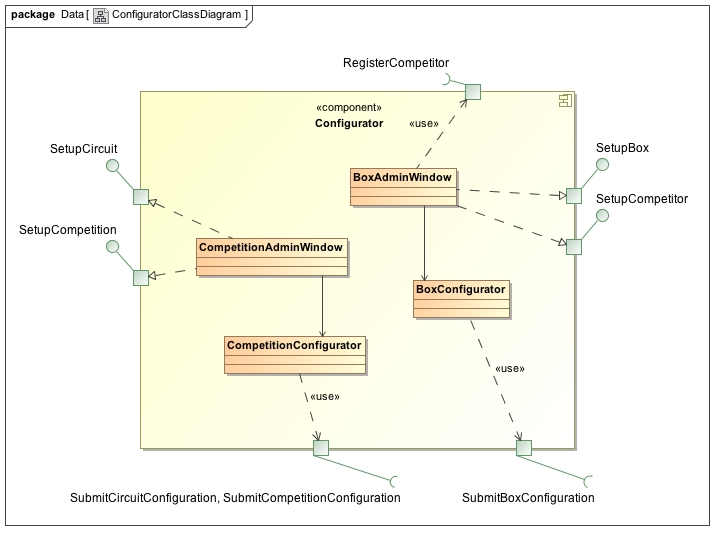
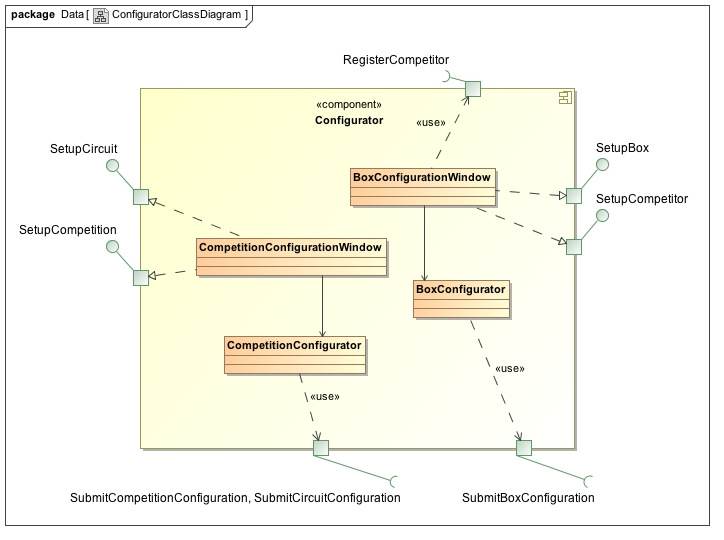
Corretta relazione, aggiunto supporto al ritentativo di connessione su caduta connessione lato box

diff --git a/documents/Relazione/soluzione_proposta.tex b/documents/Relazione/soluzione_proposta.tex
@@ -184,7 +184,7 @@ tramite le interfacce \textbf{SetupCompetitor},
 \caption{Protocol / Interface diagram - Competition/Competitor}
 \end{figure}
 \end{center}
-L'interazione fra la \emph{Competition} e il \emph{Competitor} avviene, come per le altre interazioni \emph{Competition}-componente in fase di configurazione
+L'interazione fra la \emph{Competition} e il \emph{Competitor} avviene, come per le altre interazioni \emph{Competition}-componente, in fase di configurazione
 e avvio. La \emph{Competition} si occupa di ricevere i parametri relativi a ogni \emph{Competitor} dal \emph{Configurator} (come verr\`{a} spiegato fra poco) per 
 poi inizializzare il competitor. Quando tutti i concorrenti sono pronti e anche i \emph{Box}, l'interfaccia \textbf{Start} verr\`{a} utilizzata per dare il
 via ai concorrenti.
@@ -291,7 +291,7 @@ Vi sono poi altre due interfacce offerte dal \emph{Box} al \emph{Monitor}. Per q
 acquisisce senso se si pensa che la componente \emph{Monitor}, ad alto livello, \`{e} stata pensata per pubblicare informazioni. Tali
 informazioni possono riguardare il singolo concorrente e quindi essere utili al \emph{Box}. Altre possono invece riguardare il \emph{Box} e 
 i suoi calcoli per essere esposte ad un utente (per esempio). Le due interfacce offerte dal \emph{Box} infatti servono per ottenere
-aggiornamenti sulle operazioni interne del \emph{Box} qualora essere dovessero essere esposte ad un qualunque client. Come vedremo pi\`{u}
+aggiornamenti sulle operazioni interne del \emph{Box} qualora esse dovessero essere esposte ad un qualunque client. Come vedremo pi\`{u}
 in dettaglio in seguito, questa componente \`{e} in realt\`{a} costituita da due sotto-componenti, una dedicata a \emph{Competition} e l'altra a
 \emph{Box}.
 \subsubsection{Screen-Monitor}
@@ -302,7 +302,7 @@ in dettaglio in seguito, questa componente \`{e} in realt\`{a} costituita da due
 \end{figure}
 \end{center}
 La componente \emph{Screen} comunica con il \emph{Monitor} per ottenere informazioni utili da esporre graficamente all'utente. Tali
-informazioni possono riguardare la competizione in senso globale, oppure essere legate ai singoli concorrenti e box.
+informazioni possono riguardare la competizione in senso globale, oppure essere legate ai singoli concorrenti.
 \subsubsection{Competitor-Box}
 \begin{center}
 \begin{figure}[h!]
@@ -324,7 +324,7 @@ i problemi visti. Tali entit\`{a} sono:
 \begin{itemize}
   \item \textbf{coda al checkpoint}: ogni checkpoint introduce tratti di circuito con caratteristiche diverse rispetto a quello precedente.
 	      \`{E} quindi possibile che da un tratto a molteplicit\`{a} 5 si passi ad uno a molteplicit\`{a} 3. L'accesso a tale tratto va quindi
-	      regolata per evitare situazioni anomale. La coda \`{e} ordinata in base ai tempi segnati (ulteriori dettagli in seguito).
+	      regolato per evitare situazioni anomale. La coda \`{e} ordinata in base ai tempi segnati (ulteriori dettagli in seguito).
   \item \textbf{istante di arrivo}: \`{e} l'istante in cui il concorrente \`{e} previsto arrivare. Indica l'istante reale di arrivo e dipende
 	      dal tempo di attraversamento (oltre che dal tempo accumulato fino a quel momento).
   \item \textbf{istante limite di arrivo previsto}: \`{e} l'istante in cui il concorrente arriverebbe sotto ipotesi ottimistiche al massimo. 
@@ -349,8 +349,8 @@ fino al raggiungimento di quello successivo.\\
 successivo all'istante di tempo pi\`{u} vicino.
 \item aggiunge il tempo di attraversamento calcolato (in base alle caratteristiche dell'auto e alla strategia) al tempo di liberazione del tratto o, 
 se il tempo di liberazione segnato \`{e} minore dell'istante di arrivo del concorrente, segna come istante di liberazione \emph{istante di arrivo}+\emph{tempo
-di attraversamento} (poich\`{e} significa che la traiettoria era gi\`{a} stata liberata all'arrivo del concorrente).
-\item segna il tempo di arrivo effettivo sulla coda del checkpoint successivo, che verr\`{a} \textbf{riordinata} in base al nuovo tempo.
+di attraversamento} (poich\`{e} significa che la traiettoria era gi\`{a} stata liberata all'arrivo del concorrente). Altrimenti segnerà \emph{tempo segnato+tempo di attraversamento}.
+\item segna il tempo di arrivo effettivo (dipendente chiaramente dal tempo segnato sulla traiettoria) sulla coda del checkpoint successivo, che verr\`{a} \textbf{riordinata} in base al nuovo tempo.
 \item segna il tempo di arrivo limite su tutte le altre code, da quella successiva al checkpoint che si sta per raggiungere a quella del checkpoint
 appena attraversato. Ad ogni aggiornamento del tempo limite, la coda viene \textbf{riordinata}.
 \item delay per fini di simulazione;
@@ -372,7 +372,7 @@ che nel checkpoint N il concorrente A abbia tempo di arrivo effettivo 4.0 e il c
 coda del checkpoint N+1 il concorrente B con 6.0 in prima posizione (ad esempio) e A con 8.0 a seguire. Il che significherebbe che in qualche modo B, nonostante
 abbia avuto accesso al tratto dopo A, sia riuscito lo stesso a sorpassarlo arrivando primo al checkpoint dopo. La cosa non pu\`{o} succedere. Per i punti spiegati
 prima, quando A arriva primo effettivo sulla coda del checkpoint N, potr\`{a} eseguire la valutazione delle traiettorie in modo esclusivo. Verr\`{a} quindi segnato
-un istante di liberazione sull'unica traiettoria disponibile maggiore o uguale a 4.0. Supponiamo 8.0. Verr\`{a} quindi segnato 8.0 Nella coda del checkpoint N+1. A
+un istante di liberazione sull'unica traiettoria disponibile maggiore o uguale a 4.0. Supponiamo 8.0. Verr\`{a} quindi segnato 8.0 nella coda del checkpoint N+1. A
 seguire verranno segnati $8.0+\epsilon$ su tutti gli altri tratti, fino al tratto N di nuovo dove la coda verr\`{a} riordinata e B risulter\`{a} primo effettivo.
 Ora, supponiamo (caso pessimo) che A non possa eseguire per un bel po' di tempo. B diventa primo su N, valuta la traiettoria e segna l'istante di liberazione.
 Tale istante non potr\`{a} essere minore di 8.0, poich\`{e} \`{e} stato il tempo segnato da A. Quindi, qualunque tempo di arrivo effettivo segnato al checkpoint
@@ -391,7 +391,7 @@ richiedono un rientro, il concorrente prender\`{a} il tratto dei box. Il box \`{
 Tale checkpoint introduce il tratto di uscita dai box, che porter\`{a} al checkpoint di uscita (nel circuito).\\
 I tratti nella corsia dei box hanno molteplicit\`{a} pari al numero di concorrenti. Questo perch\`{e} i concorrenti vanno alla stessa
 velocit\`{a} nelle corsie dei box e potenzialmente tutti insieme (uno dietro l'altro), quindi non possono avvenire sorpassi. L'unica ipotesi di
-sorpasso data dalla velocit\`{a} che un concorrente richiede per il rifornimento e il cambio gomme. Tale tempo influir\`{a} sull'istante di arrivo
+sorpasso \`{e} data dalla velocit\`{a} che un concorrente richiede per il rifornimento e il cambio gomme. Tale tempo influir\`{a} sull'istante di arrivo
 che verr\`{a} segnato nel checkpoint di uscita.
 % Dimostrazione dell'assenza di stallo
 \subsection{Assenza di stallo}
@@ -417,7 +417,7 @@ lo stallo porterebbe ad una contraddizione.\\
 \newpage
 %%% Architettura in dettaglio %%
 \section{Architettura in dettaglio}
-Si spiegher\`{a} ora con maggior dettaglio l'architettura di sistema, esplicando come le principali classi implementate svolgono le funzionalit\`{a}
+Si spiegher\`{a} ora con maggior dettaglio l'architettura di sistema, esplicando come le principali classi implementate svolgano le funzionalit\`{a}
 esposte dalle interfacce illustrate nel capitolo precedente.
 \subsection{Diagrammi delle classi}
 \subsubsection{Competition}
@@ -458,7 +458,7 @@ stesso \textbf{Synch\_Competition}, descritto poche righe pi\`{u} sopra.
 \item \textbf{RegistrationHandler} \`{e} l'oggetto che rimane in attesa di concorrenti. Pi\`{u} precisamente, \`{e} un server dedicato ad accogliere
 le richieste di registrazione dei concorrenti. Con il supporto di Polyorb \`{e} possibile invocare questo oggetto da remoto. Ad ogni richiesta,
 vengono salvati i parametri di configurazione in un file xml il cui nome e locazione verranno passati a \textbf{Synch\_Competition} per
-i effettuare il resto delle procedure di inizializzazione del concorrente. Di ritorno ci saranno l'ID del concorrente, il numero di lap,
+ effettuare il resto delle procedure di inizializzazione del concorrente. Di ritorno ci saranno l'ID del concorrente, il numero di lap,
 la lunghezza del circuito e il corbaloc 
 del \textbf{Competition\_Monitor} che il \emph{Box} dovr\`{a} utilizzare per rimanere sincronizzato sugli sviluppi del rispettivo concorrente.
 \end{itemize}
@@ -474,15 +474,16 @@ la traiettoria ottima in base alle condizioni del tratto e dei competitor presen
 sono contenute in \textbf{Driver}. \textbf{Car} mantiene alcune caratteristiche statiche sulla macchina e altre dinamiche, come il livello
 di benzina e l'usura delle gomme. \textbf{Strategy} mantiene le seguenti informazioni:
 \begin{itemize}
-\item Tipo gomme
+%\item Tipo gomme
 \item Stile di guida
 \item Numero di giri al pitstop (se 0, bisogna rientrare al pitstop)
 \item Durata del pitstop (nel caso il pitstop sia avvenuto)
 \item Livello di Gas (dopo il pitstop in caso sia avvenuto)
 \end{itemize}
-\textsc{Stile di guida} e \textsc{Numero di giri al pitstop} vengono aggiornate ad ogni giro, \textsc{Tipo gomme}, \textsc{Durata del pitstop}
-e \textsc{Livello di gas} vengono tenute in considerazione solo in caso di pitstop. Tipo di gomme e livello di gas vengono usate per aggiornare
-le impostazioni di \textbf{Car}. La durata del pitstop per aggiornare correttamente il tempo di arrivo segnato nel checkpoint di uscita
+\textsc{Stile di guida} e \textsc{Numero di giri al pitstop} vengono aggiornate ad ogni giro, \textsc{Durata del pitstop}
+e \textsc{Livello di gas} vengono tenute in considerazione solo in caso di pitstop. Il livello di gas viene usato per aggiornare
+le impostazioni di \textbf{Car} (le gomme vengono automaticamente messe a nuovo). 
+La durata del pitstop viene usata per aggiornare correttamente il tempo di arrivo segnato nel checkpoint di uscita
 dai box.\\
 Quando un concorrente si trova sul checkpoint prima della corsia dei box, effettua una chiamata al \emph{Box} tramite la \textbf{CompetitorRadio}
 per richiedere una strategia aggiornata. Se la strategia tornata contiene un numero di giri al pitstop pari a 0, il \textbf{TaskCompetitor}
@@ -613,7 +614,7 @@ un tipo record denominato \textbf{Competitor\_Stats}, contenente i seguenti dati
 Ora vediamo pi\`{u} dettagliatamente le due sotto-componenti accennate precedentemente:
 \begin{itemize}
 \item \textbf{OnboardComputer}:\\
-\`{e} un computer dedicato ad ogni singolo concorrente, denominato \textbf{OnboardComputer}. Ogni concorrente ne mantiene un'istanza che utilizza
+\`{e} un computer dedicato ad ogni singolo concorrente. Ogni concorrente ne mantiene un'istanza che utilizza
 per aggiornare le statistiche di checkpoint in checkpoint. Pi\`{u} precisamente, ogni concorrente possiede un'istanza di \textbf{Computer}, un record
 che colleziona le statistiche del singolo concorrente e le informazioni statiche sulla configurazione della competizione.\\
 Ogni \textbf{Computer} mantiene inoltre un riferimento ad una risorsa che nel diagramma \`{e} \textbf{Synch\_Info\_For\_Box}. Tale risorsa
@@ -627,7 +628,7 @@ passaggi:
 anche ai dati passati) e se migliore di quello precedentemente salvato (in \textbf{Computer}), viene aggiornato quello vecchio.
 \item se la fine del tratto coincide con la fine del settore vengono anche aggiornate le informazioni in \textbf{Synch\_Info\_For\_Box}. 
 Si ricorda infatti che il \emph{Box} riceve le informazioni aggiornate alla fine di ogni settore.
-\item se la fine del tratto corrisponde con la fine del giro, vengono aggiornato il miglior tempo di giro come fatto per i settori.
+\item se la fine del tratto corrisponde con la fine del giro, viene aggiornato il miglior tempo di giro come fatto per i settori.
 \item una volta effettuati tutti i controlli, le informazioni vengono impacchettate e inviate a \textbf{CompetitionComputer} per ulteriori
 controlli e per essere salvate.
 \end{itemize}
@@ -722,7 +723,7 @@ Il \emph{Box} \`{e} una componente che si occupa di assistere la gara del concor
 caratteristiche:
 \begin{description}
 \item{\textbf{Update\_Retriever}}:\\
-Come il nome suggerisce, questa unit`{a} \`{e} finalizzata a recuperare gli aggiornamenti di gara relativi al concorrente associato al box.
+Come il nome suggerisce, questa unit\`{a} \`{e} finalizzata a recuperare gli aggiornamenti di gara relativi al concorrente associato al box.
 A tale scopo, il task si connette al \textbf{Competition\_Monitor} per ottenere un pacchetto di informazioni aggiornato alla fine di ogni 
 settore. Tali informazioni vengono convertite in un formato compatibile con il sistema (vengono ricevute in XML e convertite in un oggetto
 \textbf{Competition\_Update}). Fatto ci\`{o}, gli aggiornamenti vengono inseriti nel buffer \textbf{Synch\_Competition\_Updates}. Il task
@@ -752,7 +753,7 @@ viene messo in attesa.
 Supporta la comunicazione fra \emph{Box} e \textbf{Box\_Monitor}.Questa risorse \`{e} destinata a contenere tutte le informazioni legate ai box.
 Oltre alle informazioni grezze di settore sul concorrente, la risorsa colleziona anche le medie calcolate
 dai box e le strategie ogni qualvolta ne siano disponibili di nuove. Le informazioni sono ordinate cronologicamente e associate
-ad un indice. L'indice va da 1 a $3 * Lap Totali$, poich\`{e} i settori sono tre. Se un informazione relativa ad un settore e ad una lap non
+ad un indice. L'indice va da 1 a $3 * Lap Totali$, poich\`{e} i settori sono tre. Se un'informazione relativa ad un settore e ad una lap non
 \`{e} disponibile, il richiedente viene messo in attesa fino a che l'aggiornamento non risulti disponibile.
 \end{description}
 Si pu\`{o} constatare che a concorrere per le informazioni collezionate nel \emph{Box} non vi sono solo unit\`{a} interne alla componente, ma anche
@@ -764,7 +765,7 @@ Il secondo (\emph{Screen}) richiede tutte le informazioni dall'indice 1 all'indi
 la parte del \emph{Monitor} destinata ai box. Le informazioni tornate possono riguardare solo un aggiornamento di settore o anche di strategia,
 in base a quanto disponibile per quell'indice.\\
 \\
-Infine il \textbf{Main\_Box} \`{e} destinato ad inizializzare e configurare le risorse protette condivise e i task e istanziare gli oggetti CORBA necessari 
+Infine il \textbf{Main\_Box} \`{e} destinato ad inizializzare e configurare le risorse protette condivise e i task e istanziare gli oggetti ORB necessari 
 alla comunicazione fra componenti.
 \newpage
 \subsubsection{Configurator}
@@ -781,7 +782,7 @@ un'interfaccia di configurazione (scritta in Java) per \emph{Competition} e \emp
 ovvero classi che permettono l'intercomunicazione fra linguaggi diversi, di modo quindi che i dati inseriti nelle interfacce utente
 possano essere trasferiti alle componenti sottostanti per la configurazione e inizializzazione. In dettaglio:
 \begin{description}
-\item{\textbf{CompetitionAdminWindow}}:\\
+\item{\textbf{CompetitionConfigurationWindow}}:\\
 Utilizzata per impostare i parametri di gara, ovvero:
 \begin{itemize}
 \item numero lap
@@ -790,7 +791,7 @@ Utilizzata per impostare i parametri di gara, ovvero:
 \end{itemize}
 Una volta impostati i parametri essi verranno sottomessi via \textbf{CompetitionConfigurator} alla \emph{Competition} per la
 configurazione e l'inizializzazione.
-\item{\textbf{BoxAdminWindow}}:\\
+\item{\textbf{BoxConfigurationWindow}}:\\
 Utilizzata per impostare le caratteristiche statiche del concorrente associato al box 
 (fare riferimento al capitolo \ref{competitor} per informazioni su tali parametri), dettagli riguardanti il box stesso, ovvero la strategia 
 (fare riferimento al capitolo \ref{box} per ulteriori dettagli) e la configurazione iniziale dell'auto, ovvero tipo di gomme e quantit\`{a} di
@@ -798,8 +799,6 @@ benzina iniziale. Queste informazioni vengono poi utilizzate per registrare il c
 della componente \emph{Competition}). Una volta registrato il concorrente si potranno ottenere il resto delle informazioni necessarie
 ad inizializzare il box, ovvero numero di giri e lunghezza circuito (per esempio). \`{E} quindi ora possibile inviare i parametri di configurazione
 al \emph{Box} tramite il \textbf{BoxConfigurator}.
-\item{\textbf{BoxScreen}}:\\
-La classe \textbf{BoxScreen} visualizza l'andamento della competizione da parte del concorrente a cui si riferisce.Questa finestra viene avviata dopo che il concorrente si \`{e} registrato alla competizione. Una volta avviato si mette in ascolto sul \emph{Box\_Monitor\_Radio} che ritorna (quando disponibili) le informazioni relative all'andamento del proprio concorrente, visualizzando tempi, posizione sulla pista, usura delle gomme e livello della benzina.
 \end{description}
 \newpage
 \subsubsection{Screen}
@@ -809,6 +808,8 @@ La classe \textbf{BoxScreen} visualizza l'andamento della competizione da parte 
 \caption{Class diagram - Screen}
 \end{figure}
 \begin{description}
+\item{\textbf{BoxScreen}}:\\
+La classe \textbf{BoxScreen} visualizza l'andamento della competizione da parte del concorrente a cui si riferisce.Questa finestra viene avviata dopo che il concorrente si \`{e} registrato alla competizione. Una volta avviato si mette in ascolto sul \emph{Box\_Monitor\_Radio} che ritorna (quando disponibili) le informazioni relative all'andamento del proprio concorrente, visualizzando tempi, posizione sulla pista, usura delle gomme e livello della benzina.
 \item{\textbf{ScreenTv}}:\\
 La classe \textbf{ScreenTv} \`{e} l'implementazione dell'interfaccia \textbf{TvPanelInterface} e si occupa di offrire una visualizzazione dei dati di gara.
 Quando viene creato lo ScreenTv la connessione con il monitor di sistema \`{e} gi\`{a} stata effettuata ed \`{e} quindi funzionante. Tramite il riferimento al monitor lo ScreenTv \`{e} in grado di ottenere inizialmente le informazioni statiche della gara tramite il metodo \underline{Get\_CompetitionConfiguration} e utilizzarle per costruire la GUI. Successivamente si mette in ascolto sul monitor aspettando l'iscrizione dei concorrenti.Ad iscrizione avvenuta vengono stampate le informazioni relative ai concorrenti. Successivamente, quando parte la gara, lo screenTv comincia ad acquisire informazioni dal monitor. La richiesta viene effettuata ogni intervallo di tempo (fissato per lo screen della competizione, configurabile per lo screen di una tv generica). Ogni volta che viene richiesto un aggiornamento possono presentarsi due situazioni. La prima \`{e} la disponibilit\`{a} delle informazioni che quindi vengono lette e la gui viene cos\`{i} aggiornata con i valori opportuni, la seconda \`{e} la non disponibilit\`{a} di aggiornamenti, in tal caso lo screenTv rimane in attesa.
@@ -890,7 +891,7 @@ con la guardia \textsc{Ready=True}. Quando il produttore inserisce una nuova ris
 thread in attesa possa verificare se l'informazione voluta sia stata inserita. In caso affermativo l'informazione viene ritornata. In caso negativo il thread riesegue
 la stessa procedure descritta inizialmente. Chiaramente questa tecnica non potrebbe funzionare con pi\`{u} consumatori, poich\`{e} la guardia potrebbe venire cambiata
 pi\`{u} volte ad insaputa di un thread che stia venendo \textbf{riaccodato} da \underline{Get\_Info} a \underline{Wait} (la \textbf{requeue} infatti prevede prerilascio). La
-soluzione per\`{o} si presta a risolvere il problema per tutte le situazioni in cui non pi\`{u} di un consumatore e un produttore accedono alla stessa risorsa.
+soluzione per\`{o} si presta a risolvere il problema per tutte le situazioni in cui non pi\`{u} di un consumatore e un produttore accedano alla stessa risorsa.
 \subsubsection{Conclusioni}
 Quanto descritto riguarda i casi pi\`{u} problematici di gestione dell'accesso concorrente a risorse. Il resto dei casi viene trattato con semplici risorse protette
 e \textbf{entry} con guardie. Non si presenta quindi il rischio di racecondition. Nemmeno starvation dovrebbe essere possibile, 
@@ -933,7 +934,7 @@ typedef sequence<float> float_sequence;
 Tale tipo viene poi manipolato in modo diverso in base al linguaggio utilizzato per la componente, rimanendo comunque entro un buon margine di precisione.
 \subsubsection{Misure di fault tolerance}
 Cavi di rete danneggiati o router intasati potrebbero provocare il malfunzionamento della comunicazione fra le componenti distribuite. Nel caso di malfunzionamento
-della comunicazione fra \textbf{TVScreen} e \emph{Competition}, la competizione non viene compromessa. Nella peggiore delle ipotesi il \textbf{TVScreeb} non \`{e} in grado
+della comunicazione fra \textbf{TVScreen} e \emph{Competition}, la competizione non viene compromessa. Nella peggiore delle ipotesi il \textbf{TVScreen} non \`{e} in grado
 di ottenere i dati richiesti e ritenter\`{a} in seguito. Nel caso uno o pi\`{u} dei nodi ospitanti i \emph{Box} cada o rimanga isolato, la competizione rischierebbe
 di essere compromessa. In prossimit\`{a} del checkpoint prima dei box infatti il concorrente effettua una richiesta remota al \emph{Box} per l'aggiornamento della strategia.
 Se tale richiesta produce errore, il concorrente rischierebbe di non poter procedere la gara. Si \`{e} deciso quindi di gestire l'arrivo di dati corrotti o la scomparsa di 

diff --git a/src/java/GUI/TV/screenTv.java b/src/java/GUI/TV/screenTv.java
@@ -348,7 +348,7 @@ public class ScreenTv extends Thread implements TvPanelInterface{
 
 		    }
 		    updTime = updTime + interval;
- 		     //sleep(990);
+ 		     //sleep(999);
 		    for(int boolArray=0; boolArray<Array.getLength(endRace); boolArray++){
 			if(endRace[boolArray]==false){//controllo se tutti hanno finito la gara
 			    exit=false;
@@ -611,7 +611,7 @@ public class ScreenTv extends Thread implements TvPanelInterface{
 	int minuti = (int)(timeIn/60)-(60*ore);
 	int secondi = (int)(timeIn-(minuti*60+ore*3600));
 	//int millesimi = (int)((timeIn - (minuti*60+ore*3600+secondi))*1000);
-	int decimi = (int)((timeIn - (minuti*60+ore*3600+secondi))*10);
+	//int decimi = (int)((timeIn - (minuti*60+ore*3600+secondi))*10);
 	String time;
 	if(minuti<10){
 	    if(secondi <10){
@@ -620,7 +620,7 @@ public class ScreenTv extends Thread implements TvPanelInterface{
 		//else if(millesimi<100){
 		//    time = new String("0"+ore+":0"+minuti+":0"+secondi+":0"+millesimi);}
 		//else{
-		    time = new String("0"+ore+":0"+minuti+":0"+secondi+":"+decimi);//}
+		    time = new String("0"+ore+":0"+minuti+":0"+secondi);//+":"+decimi);//}
 	    }
 	    else{
 		//if(millesimi<10){
@@ -628,7 +628,7 @@ public class ScreenTv extends Thread implements TvPanelInterface{
 		//else if(millesimi<100){
 		//    time = new String("0"+ore+":0"+minuti+":"+secondi+":0"+millesimi);}
 		//else{
-		    time = new String("0"+ore+":0"+minuti+":"+secondi+":"+decimi);//}
+		    time = new String("0"+ore+":0"+minuti+":"+secondi);//+":"+decimi);//}
 	    }
 	}
 	else{
@@ -638,7 +638,7 @@ public class ScreenTv extends Thread implements TvPanelInterface{
 		//else if(millesimi<100){
 		//    time = new String("0"+ore+":"+minuti+":0"+secondi+":0"+millesimi);}
 		//else{
-		    time = new String("0"+ore+":"+minuti+":0"+secondi+":"+decimi);//}
+		    time = new String("0"+ore+":"+minuti+":0"+secondi);//+":"+decimi);//}
 	    }
 	    else{
 		//if(millesimi<10){
@@ -646,7 +646,7 @@ public class ScreenTv extends Thread implements TvPanelInterface{
 		//else if(millesimi<100){
 		//    time = new String("0"+ore+":"+minuti+":"+secondi+":0"+millesimi);}
 		//else{
-		    time = new String("0"+ore+":"+minuti+":"+secondi+":"+decimi);//}
+		    time = new String("0"+ore+":"+minuti+":"+secondi);//+":"+decimi);//}
 	    }}
 
 	return time;
